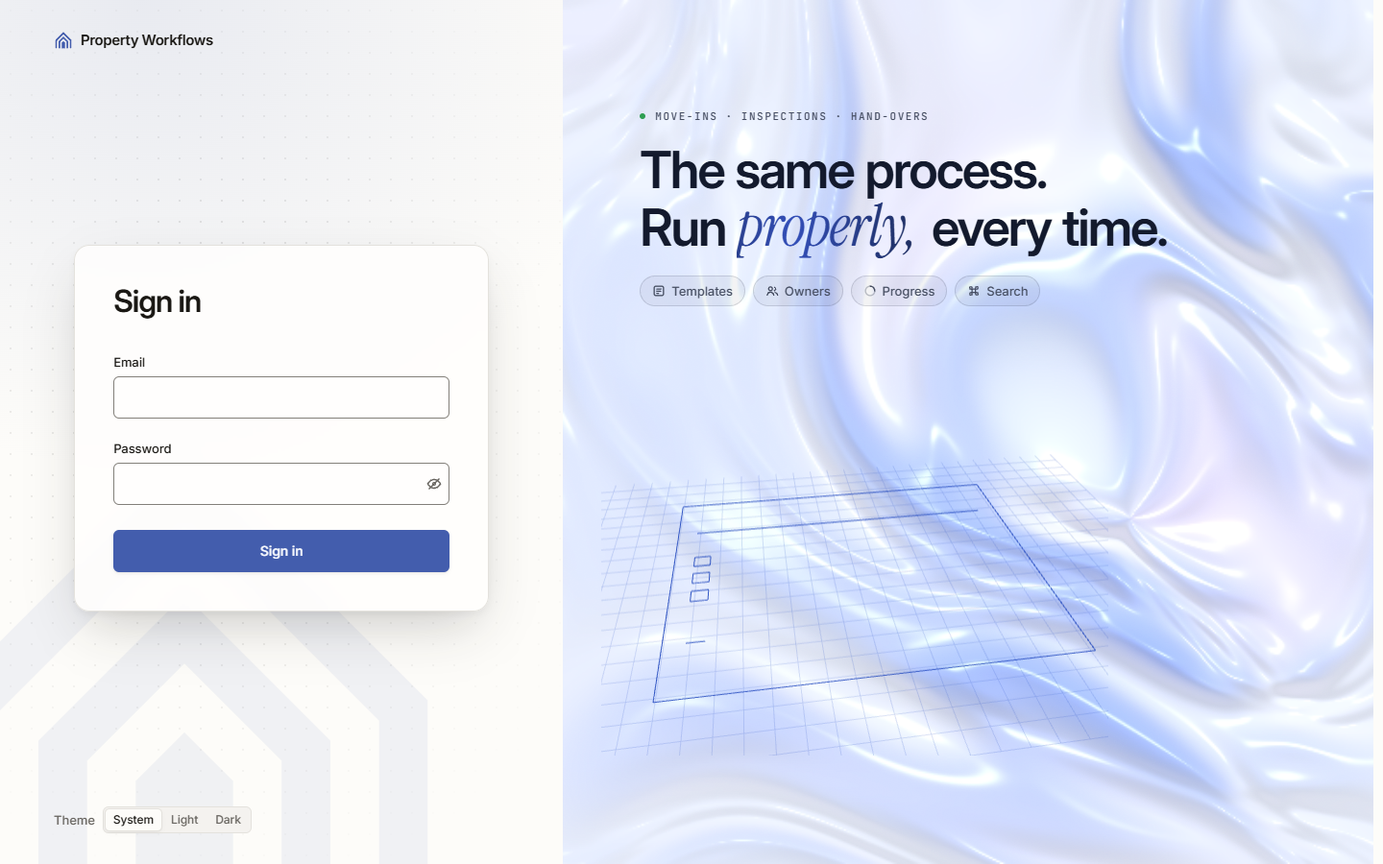
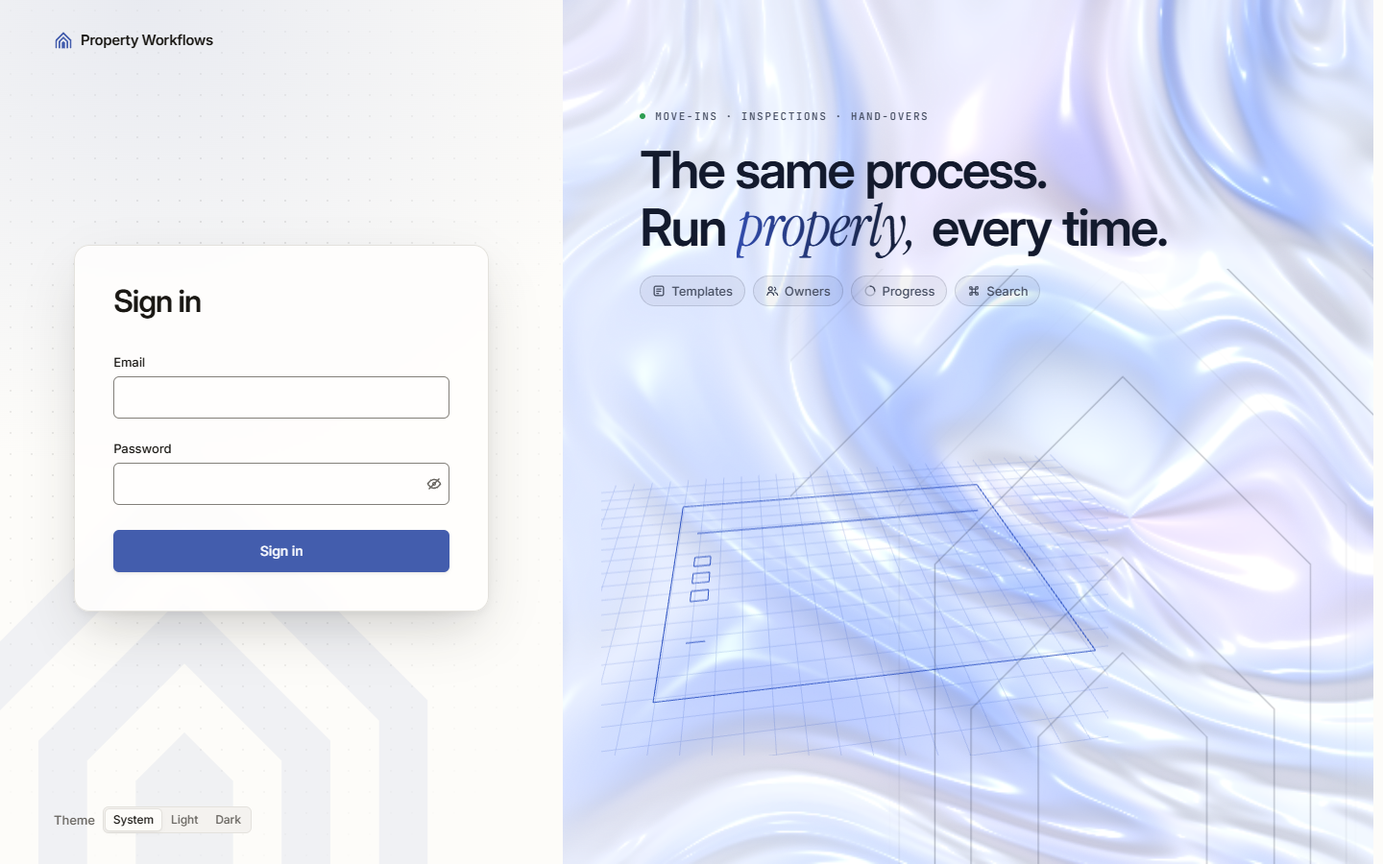
Landing: креслення передає слово живій клікабельній картці, «ехо» даху з логотипу знову на тлі
3D-креслення шаблону складається в картку (INTRO_END = 4.9 с) і змінюється живою карткою-чеклістом StoryCard з тими
самими секціями й задачами: задачі виконуються самі, далі їх можна позначати кліком (справжні <button> з
aria-pressed); по завершенні чи «Start over» — знову креслення. EchoRoofs — завжди. Reduced motion — одразу
картка «3 of 5 done». Панелі входу — overflow-clip замість overflow-hidden: «ехо» дахів виходить за край, і
фокус чи клік прокручував панель.

diff --git a/src/components/ui/hero-stage.tsx b/src/components/ui/hero-stage.tsx
@@ -1,7 +1,7 @@
 "use client";
 
 import dynamic from "next/dynamic";
-import { useEffect, useId, useRef, useState, useSyncExternalStore, type CSSProperties, type ReactNode } from "react";
+import { useCallback, useEffect, useId, useRef, useState, useSyncExternalStore, type CSSProperties, type ReactNode } from "react";
 import { cn } from "@/lib/utils";
 import { Avatar } from "./avatar";
 import { CompletionGlow } from "./completion-glow";
@@ -16,17 +16,19 @@ import {
   PlayIcon,
   ProgressIcon,
   RotateIcon,
+  SparkleIcon,
   TemplateIcon,
   UsersIcon,
 } from "./icons";
 import { StatusIcon } from "./status-badge";
 
-// Hero сторінки входу: шейдер-тло, «ехо» даху з логотипу, заголовок із серифним акцентом, чипи можливостей і скляна
-// картка, в якій чекліст «Unit handover» спершу виконується сам, а далі — за кліком користувача. Назви в картці
-// вигадані й не збігаються з шаблонами бази: відвідувач без входу не бачить вмісту шаблонів (AC-EDITOR-09).
-// Рух лише тут; поважає prefers-reduced-motion (статичний кадр «3 з 4»), має кнопку Pause (WCAG 2.2.2).
-// Головний образ — 3D «креслення, що оживає» (blueprint-scene.tsx, Three.js): вантажиться ліниво й лише в браузері;
-// поки вантажиться або без WebGL — та сама картка-чекліст StoryCard.
+// Hero сторінки входу: шейдер-тло, «ехо» даху з логотипу, що піднімається, заголовок із серифним акцентом, чипи
+// можливостей і головний образ «шаблон стає запуском»: 3D-креслення шаблону (blueprint-scene.tsx, Three.js)
+// промальовується й складається в картку, а тоді його змінює жива картка-чекліст StoryCard з тими самими рядками —
+// задачі виконуються самі, далі їх можна позначати кліком; по завершенні чи «Start over» — знову креслення.
+// Назви вигадані й не збігаються з шаблонами бази: відвідувач без входу не бачить вмісту шаблонів (AC-EDITOR-09).
+// Рух лише тут; prefers-reduced-motion — одразу картка, статичний кадр «3 of 5 done»; кнопка Pause (WCAG 2.2.2).
+// Без WebGL — лише картка.
 const BlueprintScene = dynamic(() => import("./blueprint-scene"), { ssr: false, loading: () => null });
 
 // Перевірка WebGL 2 — один раз на сторінку: пробний контекст одразу звільняємо, щоб повторні рендери не плодили
@@ -53,12 +55,25 @@ function useWebGL() {
   );
 }
 
-const TASKS: { name: string; who: string; Icon: (p: { className?: string }) => ReactNode }[] = [
-  { name: "Walk through the unit", who: "ana@example.test", Icon: ClipboardCheckIcon },
-  { name: "Photograph the meters", who: "oleh@example.test", Icon: GaugeIcon },
-  { name: "Sign the handover form", who: "ana@example.test", Icon: FileSignIcon },
-  { name: "Pass on the keys", who: "ira@example.test", Icon: KeyIcon },
+// Ті самі секції й задачі, що на 3D-картці (blueprint-scene.tsx): передача від креслення до живої картки — без стрибка змісту.
+const SECTIONS: { name: string; tasks: { name: string; who: string; Icon: (p: { className?: string }) => ReactNode }[] }[] = [
+  {
+    name: "Before handover",
+    tasks: [
+      { name: "Walk through the unit", who: "ana@example.test", Icon: ClipboardCheckIcon },
+      { name: "Photograph the meters", who: "oleh@example.test", Icon: GaugeIcon },
+      { name: "Book the cleaners", who: "ira@example.test", Icon: SparkleIcon },
+    ],
+  },
+  {
+    name: "Handover day",
+    tasks: [
+      { name: "Sign the handover form", who: "ana@example.test", Icon: FileSignIcon },
+      { name: "Pass on the keys", who: "ira@example.test", Icon: KeyIcon },
+    ],
+  },
 ];
+const TASKS = SECTIONS.flatMap((section) => section.tasks);
 
 // Лише те, що продукт уже вміє.
 const FEATURES = [
@@ -109,7 +124,12 @@ function TaskCheck({ done }: { done: boolean }) {
   );
 }
 
-function StoryCard({ playing, reduced }: { playing: boolean; reduced: boolean }) {
+/**
+ * Жива картка-чекліст. Без onRestart — самостійний цикл (без WebGL): рядки з'являються, задачі виконуються, картка
+ * згасає й починає знову. З onRestart — продовження 3D-креслення: рядки вже на місці, задачі одразу виконуються,
+ * а по завершенні чи «Start over» картка повертає слово кресленню.
+ */
+function StoryCard({ playing, reduced, onRestart }: { playing: boolean; reduced: boolean; onRestart?: () => void }) {
   const [autoDone, setAutoDone] = useState(0);
   const [cycle, setCycle] = useState(0);
   const [leaving, setLeaving] = useState(false);
@@ -122,23 +142,24 @@ function StoryCard({ playing, reduced }: { playing: boolean; reduced: boolean })
     const timers: ReturnType<typeof setTimeout>[] = [];
     let alive = true;
     const at = (ms: number, fn: () => void) => timers.push(setTimeout(() => alive && fn(), ms));
+    const lead = onRestart ? 0 : 1500;
     const run = () => {
       setLeaving(false);
       setAutoDone(0);
       setCycle((c) => c + 1);
-      for (let i = 1; i <= TASKS.length; i++) at(1500 + i * 1250, () => setAutoDone(i));
-      const end = 1500 + TASKS.length * 1250;
+      for (let i = 1; i <= TASKS.length; i++) at(lead + i * 1000, () => setAutoDone(i));
+      const end = lead + TASKS.length * 1000;
       at(end + 3200, () => setLeaving(true));
-      at(end + 3900, run);
+      at(end + 3900, onRestart ?? run);
     };
     at(0, run);
     return () => {
       alive = false;
       timers.forEach(clearTimeout);
     };
-  }, [playing, manual]);
+  }, [playing, manual, onRestart]);
 
-  // Reduced motion: статичний кадр «3 з 4», без циклу.
+  // Reduced motion: статичний кадр «3 of 5 done», без циклу.
   const flags = manual ?? TASKS.map((_, i) => i < (reduced ? 3 : autoDone));
   const done = flags.filter(Boolean).length;
   const total = TASKS.length;
@@ -206,30 +227,37 @@ function StoryCard({ playing, reduced }: { playing: boolean; reduced: boolean })
             </div>
           </div>
 
-          <ul
-            onFocus={() => !manual && setManual(flags)}
-            className="relative flex flex-col divide-y divide-stage-border overflow-hidden rounded-lg border border-stage-border"
-          >
-            {TASKS.map((task, i) => (
-              <li
-                key={`${cycle}-${task.name}`}
-                style={{ "--i": i, "--reveal-delay": "250ms" } as CSSProperties}
-                className="animate-ui-reveal"
-              >
-                <button
-                  type="button"
-                  aria-pressed={flags[i]}
-                  onClick={() => toggle(i)}
-                  className="group/task flex w-full items-center gap-3 px-3.5 py-2.5 text-left transition-ui hover:bg-stage-foreground/5 focus-visible:outline-offset-[-2px]"
-                >
-                  <TaskCheck done={flags[i]} />
-                  <task.Icon className="size-3.5 text-stage-muted/70 transition-transform duration-(--duration-base) ease-standard group-hover/task:scale-110 group-hover/task:text-stage-foreground" />
-                  <span className={cn("flex-1 text-body transition-ui", flags[i] ? "text-stage-muted" : "text-stage-foreground")}>{task.name}</span>
-                  <Avatar email={task.who} />
-                </button>
-              </li>
+          <div onFocus={() => !manual && setManual(flags)} className="relative flex flex-col gap-2">
+            {SECTIONS.map((section) => (
+              <section key={section.name} aria-label={section.name} className="flex flex-col gap-1">
+                <h3 className="px-1 text-meta font-semibold text-stage-muted">{section.name}</h3>
+                <ul className="flex flex-col divide-y divide-stage-border overflow-hidden rounded-lg border border-stage-border">
+                  {section.tasks.map((task) => {
+                    const i = TASKS.indexOf(task);
+                    return (
+                      <li
+                        key={`${cycle}-${task.name}`}
+                        style={{ "--i": i, "--reveal-delay": "250ms" } as CSSProperties}
+                        className={onRestart ? undefined : "animate-ui-reveal"}
+                      >
+                        <button
+                          type="button"
+                          aria-pressed={flags[i]}
+                          onClick={() => toggle(i)}
+                          className="group/task flex w-full items-center gap-3 px-3.5 py-2 text-left transition-ui hover:bg-stage-foreground/5 focus-visible:outline-offset-[-2px]"
+                        >
+                          <TaskCheck done={flags[i]} />
+                          <task.Icon className="size-3.5 text-stage-muted/70 transition-transform duration-(--duration-base) ease-standard group-hover/task:scale-110 group-hover/task:text-stage-foreground" />
+                          <span className={cn("flex-1 text-body transition-ui", flags[i] ? "text-stage-muted" : "text-stage-foreground")}>{task.name}</span>
+                          <Avatar email={task.who} />
+                        </button>
+                      </li>
+                    );
+                  })}
+                </ul>
+              </section>
             ))}
-          </ul>
+          </div>
         </div>
       </CompletionGlow>
 
@@ -237,7 +265,7 @@ function StoryCard({ playing, reduced }: { playing: boolean; reduced: boolean })
         {manual ? (
           <button
             type="button"
-            onClick={() => setManual(null)}
+            onClick={() => (onRestart ? onRestart() : setManual(null))}
             className="animate-ui-fade inline-flex h-6 items-center gap-1.5 rounded-full px-2 text-stage-foreground transition-ui hover:bg-stage-foreground/10"
           >
             <RotateIcon className="size-3.5" />
@@ -275,9 +303,22 @@ function EchoRoofs({ playing, reduced }: { playing: boolean; reduced: boolean })
 
 const reveal = (i: number, delay = 150) => ({ "--i": i, "--reveal-delay": `${delay}ms` }) as CSSProperties;
 
-/** Головний образ hero: 3D-креслення, а без WebGL — картка-чекліст StoryCard. */
+/**
+ * Головний образ hero «шаблон стає запуском»: 3D-креслення складається в картку й передає слово живій картці з тими
+ * самими рядками (вона клікабельна); по завершенні чи «Start over» — знову креслення. Без WebGL і за reduced motion —
+ * лише жива картка.
+ */
 function HeroVisual({ playing, reduced }: { playing: boolean; reduced: boolean }) {
-  if (!useWebGL()) {
+  const webgl = useWebGL();
+  const [stage, setStage] = useState<"scene" | "card">("scene");
+  const [round, setRound] = useState(0);
+  const toCard = useCallback(() => setStage("card"), []);
+  const toScene = useCallback(() => {
+    setRound((r) => r + 1);
+    setStage("scene");
+  }, []);
+
+  if (!webgl || reduced) {
     return (
       <div className="animate-ui-float">
         <StoryCard playing={playing} reduced={reduced} />
@@ -285,15 +326,20 @@ function HeroVisual({ playing, reduced }: { playing: boolean; reduced: boolean }
     );
   }
   return (
-    <div className="relative -mx-10 aspect-[4/3.3] w-[calc(100%+5rem)]" aria-hidden="true">
-      <BlueprintScene playing={playing} reduced={reduced} />
+    <div className="relative -mx-10 grid aspect-[4/3.3] w-[calc(100%+5rem)] place-items-center">
+      <div
+        aria-hidden="true"
+        className={cn("absolute inset-0 transition-[opacity,filter] duration-500 ease-standard", stage === "card" && "opacity-0 blur-[2px]")}
+      >
+        <BlueprintScene key={round} playing={playing && stage === "scene"} reduced={reduced} onIntroEnd={toCard} />
+      </div>
+      {stage === "card" ? (
+        <div className="animate-ui-fade relative w-full max-w-[26rem]">
+          <StoryCard playing={playing} reduced={reduced} onRestart={toScene} />
+        </div>
+      ) : null}
     </div>
   );
-}
-
-/** «Ехо» дахів — лише без 3D-сцени: поруч із кресленням лінії дахів змагались би з ним. */
-function HeroRoofs({ playing, reduced }: { playing: boolean; reduced: boolean }) {
-  return useWebGL() ? null : <EchoRoofs playing={playing} reduced={reduced} />;
 }
 
 export function HeroStage() {
@@ -322,7 +368,7 @@ export function HeroStage() {
   return (
     <div
       ref={root}
-      className="group/stage relative isolate h-full min-h-dvh w-full overflow-hidden bg-stage text-stage-foreground"
+      className="group/stage relative isolate h-full min-h-dvh w-full overflow-clip bg-stage text-stage-foreground"
       onPointerMove={(event) => {
         if (reduced || !root.current) return;
         const rect = root.current.getBoundingClientRect();
@@ -331,7 +377,7 @@ export function HeroStage() {
       }}
     >
       <HeroShader playing={playing} speed={calm ? 0.25 : 1} />
-      <HeroRoofs playing={playing} reduced={reduced} />
+      <EchoRoofs playing={playing} reduced={reduced} />
       <svg aria-hidden="true" className="pointer-events-none absolute inset-0 size-full opacity-[0.14] mix-blend-soft-light">
         <filter id={grainId}>
           <feTurbulence type="fractalNoise" baseFrequency="0.85" numOctaves="2" stitchTiles="stitch" />

diff --git a/src/components/ui/blueprint-scene.tsx b/src/components/ui/blueprint-scene.tsx
@@ -1,9 +1,10 @@
 "use client";
 
 // 3D-сцена hero сторінки входу — «креслення, що оживає»: аркуш-креслення шаблону з сіткою промальовується лініями,
-// піднімається й складається у скляну картку запуску «Flat 7, handover», задачі виконуються по одній, запуск
-// стає «completed», картка відпливає — і цикл знову (≈12 с). Кольори — з токенів теми (--stage*, --status-done-mark),
-// тож світла й темна теми підхоплюються самі. Рух — лише коли playing; reduced motion — статичний кадр «3 of 5 done».
+// піднімається й складається у скляну картку запуску «Flat 7, handover»; з onIntroEnd у цей момент (INTRO_END)
+// передає слово живій картці HeroStage, без нього задачі виконуються по одній, запуск стає «completed», картка
+// відпливає — і цикл знову (≈12 с). Кольори — з токенів теми (--stage*, --status-done-mark), тож світла й темна теми
+// підхоплюються самі. Рух — лише коли playing; reduced motion — статичний кадр «3 of 5 done».
 // Сцена декоративна (aria-hidden у HeroStage): той самий зміст продукт показує словами в заголовку hero.
 import { Canvas, useFrame, useThree } from "@react-three/fiber";
 import { useEffect, useMemo, useRef, useState } from "react";
@@ -11,6 +12,7 @@ import * as THREE from "three";
 
 const CYCLE = 12;
 const REDUCED_FRAME = 7.3; // три задачі з п'яти вже «done»
+const INTRO_END = 4.9; // аркуш склався в картку, жодної задачі ще не позначено
 
 // Назви вигадані, як у картці HeroStage: відвідувач без входу не бачить вмісту шаблонів бази (AC-EDITOR-09).
 const CASE_NAME = "Flat 7, handover";
@@ -373,7 +375,7 @@ function buildScene(palette: Palette) {
   return { root, apply, dispose: () => disposeTree(root) };
 }
 
-function Story({ palette, playing, reduced }: { palette: Palette; playing: boolean; reduced: boolean }) {
+function Story({ palette, playing, reduced, onIntroEnd }: { palette: Palette; playing: boolean; reduced: boolean; onIntroEnd?: () => void }) {
   const scene = useMemo(() => buildScene(palette), [palette]);
   const time = useRef(reduced ? REDUCED_FRAME : 0);
   const pointer = useRef({ x: 0, y: 0 });
@@ -399,7 +401,9 @@ function Story({ palette, playing, reduced }: { palette: Palette; playing: boole
     const pinned = (window as { __blueprintT?: unknown }).__blueprintT;
     if (typeof pinned === "number") time.current = pinned % CYCLE;
     else if (playing) {
+      const before = time.current;
       time.current = (time.current + Math.min(delta, 0.25)) % CYCLE;
+      if (onIntroEnd && before < INTRO_END && time.current >= INTRO_END) onIntroEnd();
     }
     scene.apply(time.current);
     // Курсор злегка нахиляє сцену (без руху за reduced motion).
@@ -412,7 +416,7 @@ function Story({ palette, playing, reduced }: { palette: Palette; playing: boole
   return <primitive object={scene.root} />;
 }
 
-export default function BlueprintScene({ playing, reduced }: { playing: boolean; reduced: boolean }) {
+export default function BlueprintScene({ playing, reduced, onIntroEnd }: { playing: boolean; reduced: boolean; onIntroEnd?: () => void }) {
   const palette = usePalette();
   const [fontsReady, setFontsReady] = useState(false);
   useEffect(() => {
@@ -432,7 +436,7 @@ export default function BlueprintScene({ playing, reduced }: { playing: boolean;
       gl={{ antialias: true, alpha: true, powerPreference: "low-power" }}
       camera={{ position: [0, 0.15, 6.2], fov: 38 }}
     >
-      <Story palette={palette} playing={playing} reduced={reduced} />
+      <Story palette={palette} playing={playing} reduced={reduced} onIntroEnd={onIntroEnd} />
     </Canvas>
   );
 }

diff --git a/src/app/login/page.tsx b/src/app/login/page.tsx
@@ -27,7 +27,7 @@ export default async function LoginPage({ searchParams }: PageProps<"/login">) {
       >
         <LogoMark className="absolute -bottom-6 -right-4 size-32 text-stage-foreground/15" />
       </div>
-      <section className="relative isolate flex flex-col overflow-hidden px-6 py-8 sm:px-14">
+      <section className="relative isolate flex flex-col overflow-clip px-6 py-8 sm:px-14">
         {/* Фактура панелі: м'яке сяйво primary зверху й точкова сітка, що розчиняється до краю. Лише токени. */}
         <div
           aria-hidden="true"

diff --git a/DESIGN.md b/DESIGN.md
@@ -10,7 +10,7 @@
 
 Інтерфейс для менеджерів і адміністраторів нерухомості: вони щодня запускають шаблони, ведуть задачі й дивляться, де застряг запуск. Основне місце роботи — робочий стіл, тому щільність як у Linear: рядки 32–44 px, контроли 32 px, мало рамок, структура відчувається, а не малюється. Тон: **спокійний, діловий, теплий, уважний**. Нейтралі теплі (відтінок 80–85), акцент — приглушений indigo (відтінок 268), що майже протилежний теплим сірим і тому читається чисто. Уникаємо: кричущих градієнтів на робочих екранах, емодзі як маркерів, сирих кольорів, пастельного «розмитого» тла замість змісту.
 
-Єдиний навмисно «кінематографічний» екран — вхід: сцена зі шовковим WebGL-шейдером (світла в світлій темі, темна в темній), і 3D-сценою «креслення, що оживає» (Three.js): аркуш-креслення шаблону з сіткою промальовується лініями, піднімається й складається у скляну картку запуску «Flat 7, handover» (вигадані назви, не з бази — AC-EDITOR-09), задачі виконуються по одній, запуск стає «completed» з м'яким спалахом, картка відпливає — цикл ≈12 с; курсор злегка нахиляє сцену. Без WebGL — «ехо» даху з логотипу і картка, у якій чекліст сам виконується. Це перша мить продукту. Усередині рух стриманий: 120–240 мс, ease-out, без перельоту на кольорі й прозорості. Сторінка з'являється з легким підйомом (240 мс), лічильники на головній «набираються» від нуля, кільце й смужка прогресу домальовуються, списки з'являються каскадом (перші 8, по 24 мс), `Select` закривається 140 мс. Усе зникає за `prefers-reduced-motion`. Тема — вибір «Theme»: System (за замовчуванням, слідує за виглядом пристрою через `prefers-color-scheme`), Light, Dark. Вибір лежить на пристрої (`localStorage`, ключ `pw.theme`), не в профілі, і діє на всіх сторінках, зокрема на вході; `data-theme` на `<html>` виставляє вбудований скрипт у `<head>` до першого малювання (без спалаху), для System атрибута немає.
+Єдиний навмисно «кінематографічний» екран — вхід: сцена зі шовковим WebGL-шейдером (світла в світлій темі, темна в темній), і 3D-сценою «креслення, що оживає» (Three.js): аркуш-креслення шаблону з сіткою промальовується лініями, піднімається й складається у скляну картку запуску «Flat 7, handover» (вигадані назви, не з бази — AC-EDITOR-09) і передає слово живій картці-чеклісту з тими самими секціями й задачами: задачі виконуються по одній, запуск стає «completed» з м'яким спалахом, а далі задачі можна позначати кліком; по завершенні чи «Start over» — знову креслення («шаблон стає запуском»). Курсор злегка нахиляє сцену; на тлі піднімається «ехо» даху з логотипу. Без WebGL — «ехо» даху і жива картка. Це перша мить продукту. Усередині рух стриманий: 120–240 мс, ease-out, без перельоту на кольорі й прозорості. Сторінка з'являється з легким підйомом (240 мс), лічильники на головній «набираються» від нуля, кільце й смужка прогресу домальовуються, списки з'являються каскадом (перші 8, по 24 мс), `Select` закривається 140 мс. Усе зникає за `prefers-reduced-motion`. Тема — вибір «Theme»: System (за замовчуванням, слідує за виглядом пристрою через `prefers-color-scheme`), Light, Dark. Вибір лежить на пристрої (`localStorage`, ключ `pw.theme`), не в профілі, і діє на всіх сторінках, зокрема на вході; `data-theme` на `<html>` виставляє вбудований скрипт у `<head>` до першого малювання (без спалаху), для System атрибута немає.
 
 ## 2. Кольори
 
@@ -159,7 +159,7 @@
 | `FlashNotice` | `kind` `success` / `error`; `clear`; `quiet` | відгук на дію з параметра адреси після серверної дії: показується один раз і прибирає параметр з адреси (не повертається після перезавантаження й «назад»); `quiet` — лише для скрінрідера, коли видимий відгук дає сама сторінка («<задача>: done») |
 | Нагадування біля «Runs» | `openTasks` в `AppShell` | замість листів: число моїх задач «to do» на пункті «Runs» (бічна панель і мобільна смуга), для скрінрідера — «N open tasks assigned to you»; нуль — нічого |
 | `Logo`, `LogoMark` | — | знак «Echo Roof» у `primary`; без жодного кольору поза токенами |
-| `HeroStage`, `HeroShader`, `BlueprintScene` | — | лише вхід: шейдер із кольорами `--stage*`, чипи можливостей (лише назви); `BlueprintScene` — 3D-креслення (Three.js, `@react-three/fiber`), вантажиться ліниво й лише на `/login`, кольори бере з токенів поточної теми (`--stage*`, `--status-done*`), власних кольорів немає; без WebGL — чекліст, що виконується сам, а за кліком — користувачем («Start over») |
+| `HeroStage`, `HeroShader`, `BlueprintScene` | — | лише вхід: шейдер із кольорами `--stage*`, чипи можливостей (лише назви); `BlueprintScene` — 3D-креслення (Three.js, `@react-three/fiber`), вантажиться ліниво й лише на `/login`, кольори бере з токенів поточної теми (`--stage*`, `--status-done*`), власних кольорів немає; креслення складається в картку й передає слово живій картці (`StoryCard`, ті самі секції й задачі), задачі виконуються самі, а за кліком — користувачем («Start over» — знову креслення); «ехо» даху з логотипу на тлі; без WebGL — лише жива картка |
 | `icons` | `HomeIcon`, `TemplateIcon`, `UsersIcon`, `GaugeIcon`, `KeyIcon`… | лінійні 16 px, штрих 1.5, `currentColor`; лише декор, підпис завжди поруч |
 
 ## 6. Стани
@@ -194,8 +194,8 @@
 - Контраст — таблиця в розділі 2, перевіряється скриптом.
 - Статус ніколи не лише кольором: іконка іншої форми й слово.
 - Спершу семантичний HTML: `<button>`, `<table>`, `<dialog>`, `<fieldset>`+`<legend>`; `aria-*` — де HTML бракує.
-- Рух: усе декоративне вимикається за `prefers-reduced-motion` (hero — статичний кадр «3 of 5 done», без WebGL — «3 з 4»); анімація входу довша за 5 с має кнопку «Pause animation» (WCAG 2.2.2); без WebGL лишається CSS-фон і картка-чекліст.
-- Hero: 3D-сцена — декор (`aria-hidden`), зміст продукту несуть заголовок і чипи; у запасній картці (без WebGL) задачі — справжні `<button>` з `aria-pressed`, доступні з клавіатури, фокус усередині картки зупиняє автопоказ. Чипи можливостей — статичний декор без опису.
+- Рух: усе декоративне вимикається за `prefers-reduced-motion` (hero — одразу жива картка, статичний кадр «3 of 5 done»); анімація входу довша за 5 с має кнопку «Pause animation» (WCAG 2.2.2); без WebGL лишається CSS-фон і картка-чекліст.
+- Hero: 3D-сцена — декор (`aria-hidden`), зміст продукту несуть заголовок і чипи; у живій картці задачі — справжні `<button>` з `aria-pressed`, доступні з клавіатури, фокус усередині картки зупиняє автопоказ. Панелі входу обрізають «ехо» дахів через `overflow-clip`, а не `overflow-hidden`: фокус чи клік не прокручує панель. Чипи можливостей — статичний декор без опису.
 - Пароль: можна вставляти й користуватись менеджером паролів; «Show / Hide»; підказка «Caps Lock is on.» (`aria-live`).
 
 ## Відгук на дію й видимість тексту
